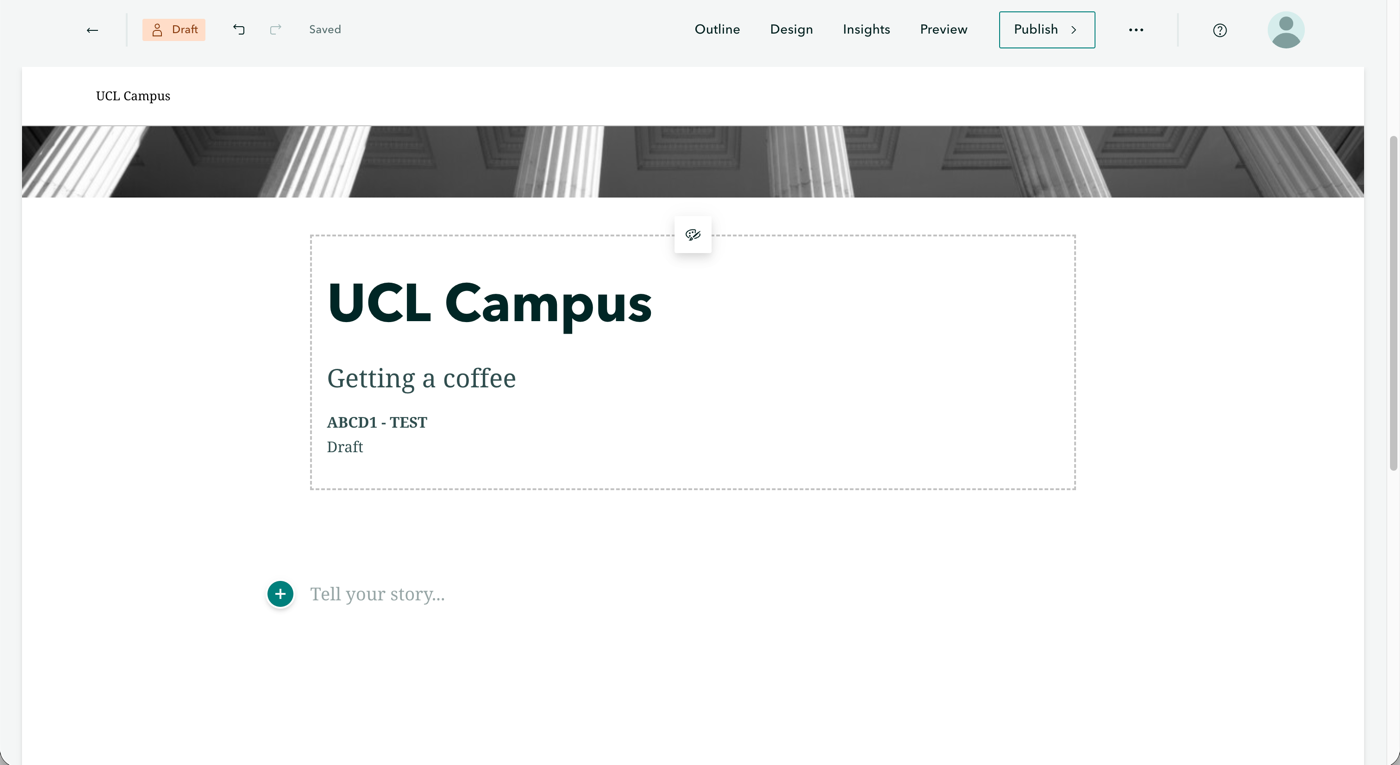
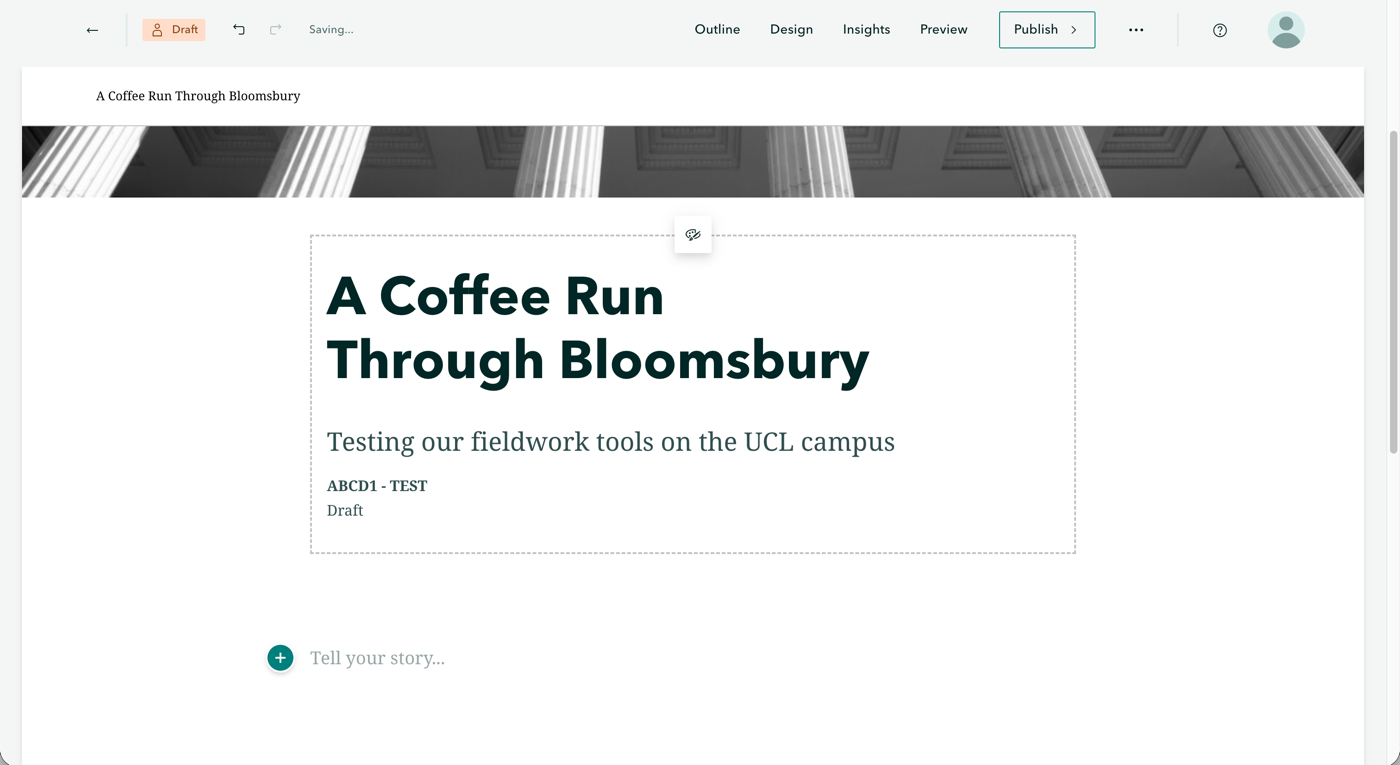
Page 03: 14 screenshots, Anwar example as callout, public-sharing callout, publish + update sharing steps, legend-only map options

diff --git a/docs/03-storymap.html b/docs/03-storymap.html
@@ -446,7 +446,19 @@ ul.task-list li input[type="checkbox"] {
 <section id="what-is-a-story-map" class="level2" data-number="3.1">
 <h2 data-number="3.1" class="anchored" data-anchor-id="what-is-a-story-map"><span class="header-section-number">3.1</span> What is a story map?</h2>
 <p>A story map is a scrolling web page in which you can place a map right next to the text it belongs to. The reader scrolls through the story, and can also zoom, pan and click on the map. A good story map has a clear storyline, and every photo, video and map element is there because it supports that storyline.</p>
-<p>For an example, have a look at <a href="https://storymaps.arcgis.com/stories/d56637a2dea048adbb520082eddea076"><em>Short revisit to the Cholera Outbreak in Soho, London (1854)</em></a> by Dr Anwar Musah, who designed the original story map material for this module. It retells John Snow’s famous map of cholera deaths around the Broad Street water pump, and shows how text, images and an interactive map can work together. It uses different data and is longer than your story map can be, so use it for inspiration, not as a template.</p>
+<div class="callout callout-style-simple callout-tip callout-titled">
+<div class="callout-header d-flex align-content-center">
+<div class="callout-icon-container">
+<i class="callout-icon"></i>
+</div>
+<div class="callout-title-container flex-fill">
+<span class="screen-reader-only">Tip</span>A proper story map: John Snow and the 1854 cholera outbreak
+</div>
+</div>
+<div class="callout-body-container callout-body">
+<p>For a full example, have a look at <a href="https://storymaps.arcgis.com/stories/d56637a2dea048adbb520082eddea076"><em>Short revisit to the Cholera Outbreak in Soho, London (1854)</em></a>, a story map designed by Dr Anwar Musah, who also designed the original story map material for this module. It retells John Snow’s famous map of cholera deaths around the Broad Street water pump, and shows how text, images and an interactive map can work together. It uses different data and is longer than your story map can be, so use it for inspiration, not as a template.</p>
+</div>
+</div>
 <p>Your story map must fit the theme your working group was allocated for the Urban Project. It is worth planning the storyline <em>before</em> you start building, by asking yourself three questions:</p>
 <ol type="1">
 <li>What is the one thing you want a reader to understand about your theme in your study area?</li>
@@ -497,10 +509,10 @@ Figure&nbsp;2: Creating a new story.
 <li><p>Click on the title placeholder and type your main title. Keep it short and specific, and make it about your theme rather than something like “My story map”. You can add a subtitle underneath.</p></li>
 <li><p>Below the subtitle is the <strong>byline</strong>, which shows your name by default. Replace it with your candidate number and your group code (for example <code>ABCD1 - CAT1_WG05</code>, with the group code as in the title of your map). Please do not put your name anywhere in the story: a story map you submit as a formative worksheet does not need to be anonymous, but it may become part of your portfolio, which is marked anonymously, so it is easiest to leave your name out from the start.</p></li>
 <li><p>Choose a cover design that suits your theme, and pick a cover image from your working group’s photos.</p>
-<div id="fig-cover" class="quarto-float quarto-figure quarto-figure-center anchored" alt="Story builder with a cover titled UCL Campus, subtitle Getting a coffee, byline ABCD1 - TEST, and a photo of columns as cover image">
+<div id="fig-cover" class="quarto-float quarto-figure quarto-figure-center anchored" alt="Story builder with a cover titled A Coffee Run Through Bloomsbury, subtitle Testing our fieldwork tools on the UCL campus, byline ABCD1 - TEST, and a photo of columns as cover image">
 <figure class="quarto-float quarto-float-fig figure">
 <div aria-describedby="fig-cover-caption-0ceaefa1-69ba-4598-a22c-09a6ac19f8ca">
-<img src="images/w03/cover.png" class="img-fluid figure-img" alt="Story builder with a cover titled UCL Campus, subtitle Getting a coffee, byline ABCD1 - TEST, and a photo of columns as cover image">
+<img src="images/w03/cover.png" class="img-fluid figure-img" alt="Story builder with a cover titled A Coffee Run Through Bloomsbury, subtitle Testing our fieldwork tools on the UCL campus, byline ABCD1 - TEST, and a photo of columns as cover image">
 </div>
 <figcaption class="quarto-float-caption-bottom quarto-float-caption quarto-float-fig" id="fig-cover-caption-0ceaefa1-69ba-4598-a22c-09a6ac19f8ca">
 Figure&nbsp;3: Cover for the <strong>test walk</strong>, with a made-up candidate number and <code>TEST</code> in the byline. Your byline shows your own candidate number and group code.
@@ -508,11 +520,21 @@ Figure&nbsp;3: Cover for the <strong>test walk</strong>, with a made-up candidat
 </figure>
 </div></li>
 </ol>
-<p>Your story is saved automatically as a draft in your own ArcGIS Online content.</p>
+<p>Your story is saved automatically as a draft: look for <span class="ui">Draft</span> and <span class="ui">Saved</span> at the top left.</p>
 </section>
 <section id="add-your-text" class="level2" data-number="3.3">
 <h2 data-number="3.3" class="anchored" data-anchor-id="add-your-text"><span class="header-section-number">3.3</span> Add your text</h2>
-<p>To add text, click below the cover and start typing. Use <span class="ui">Heading</span> from the text style menu for each of your main sections, so that the story gets a clear structure and a navigation bar. Try to keep paragraphs short, because people read web pages differently from essays.</p>
+<p>To add text, click below the cover (where it says <em>Tell your story…</em>) and start typing. For each of your main sections, select the line with the section title, open the text style menu (it shows <span class="ui">Paragraph</span>), and choose <span class="ui">Heading 1</span>. This gives the story a clear structure. Try to keep paragraphs short, because people read web pages differently from essays.</p>
+<div id="fig-text-style" class="quarto-float quarto-figure quarto-figure-center anchored" alt="Story builder with the text style menu open, listing Paragraph, Heading 1, Heading 2, Heading 3, Bulleted list, Numbered list and Quote">
+<figure class="quarto-float quarto-float-fig figure">
+<div aria-describedby="fig-text-style-caption-0ceaefa1-69ba-4598-a22c-09a6ac19f8ca">
+<img src="images/w03/text-style.png" class="img-fluid figure-img" alt="Story builder with the text style menu open, listing Paragraph, Heading 1, Heading 2, Heading 3, Bulleted list, Numbered list and Quote">
+</div>
+<figcaption class="quarto-float-caption-bottom quarto-float-caption quarto-float-fig" id="fig-text-style-caption-0ceaefa1-69ba-4598-a22c-09a6ac19f8ca">
+Figure&nbsp;4: Turning a line into a heading with the text style menu.
+</figcaption>
+</figure>
+</div>
 <p>Write for a reader who was not on the trip. Your text should explain the aim, the place, and what you did and learned, in your own words. The worksheet sets the word limit.</p>
 <div class="exercise callout callout-style-simple callout-note no-icon callout-titled">
 <div class="callout-header d-flex align-content-center">
@@ -532,11 +554,50 @@ Figure&nbsp;3: Cover for the <strong>test walk</strong>, with a made-up candidat
 <h2 data-number="3.4" class="anchored" data-anchor-id="add-your-map"><span class="header-section-number">3.4</span> Add your map</h2>
 <p>Next, we will add the web map you made last week:</p>
 <ol type="1">
-<li>Click <span class="ui">+</span> where the map should go and choose <span class="ui">Map</span>.</li>
-<li>Select <span class="ui">My content</span>, choose the web map you saved last week, and click <span class="ui">Add</span>.</li>
-<li>If you are asked about sharing, agree to share the map at the same level as the story. You will make the story public at the end (see <a href="#share-and-submit">Share and submit</a>).</li>
-<li>Use the map block’s <span class="ui">Options</span> to switch on the legend, the zoom buttons and the expand button (which lets the reader open the map full screen), and set the starting view to your study area.</li>
-<li>Click on a point to check that the pop-up still shows the site ID, note and photo. <!-- SCREENSHOT 2: map block in the story, with legend and zoom buttons. images/w03/map-block.png --></li>
+<li><p>Click <span class="ui">+</span> where the map should go and choose <span class="ui">Map</span>.</p>
+<div id="fig-block-menu" class="quarto-float quarto-figure quarto-figure-center anchored" alt="The block menu in the story builder with Text, Button, Separator, Code, Quiz, Map, Chart, Infographic, Table and Image, with Map highlighted">
+<figure class="quarto-float quarto-float-fig figure">
+<div aria-describedby="fig-block-menu-caption-0ceaefa1-69ba-4598-a22c-09a6ac19f8ca">
+<img src="images/w03/block-menu.png" class="img-fluid figure-img" alt="The block menu in the story builder with Text, Button, Separator, Code, Quiz, Map, Chart, Infographic, Table and Image, with Map highlighted">
+</div>
+<figcaption class="quarto-float-caption-bottom quarto-float-caption quarto-float-fig" id="fig-block-menu-caption-0ceaefa1-69ba-4598-a22c-09a6ac19f8ca">
+Figure&nbsp;5: The <span class="ui">+</span> menu with <span class="ui">Map</span>.
+</figcaption>
+</figure>
+</div></li>
+<li><p>Under <span class="ui">My Content</span>, click the web map you saved last week.</p>
+<div id="fig-add-map" class="quarto-float quarto-figure quarto-figure-center anchored" alt="Add a map panel with My Content selected and two web maps, GEOG0187 - UCL Field Test and GEOG0187 - Secondary Data">
+<figure class="quarto-float quarto-float-fig figure">
+<div aria-describedby="fig-add-map-caption-0ceaefa1-69ba-4598-a22c-09a6ac19f8ca">
+<img src="images/w03/add-map.png" class="img-fluid figure-img" alt="Add a map panel with My Content selected and two web maps, GEOG0187 - UCL Field Test and GEOG0187 - Secondary Data">
+</div>
+<figcaption class="quarto-float-caption-bottom quarto-float-caption quarto-float-fig" id="fig-add-map-caption-0ceaefa1-69ba-4598-a22c-09a6ac19f8ca">
+Figure&nbsp;6: Choosing the <strong>test walk</strong> map. You choose your own map from last week.
+</figcaption>
+</figure>
+</div></li>
+<li><p>The map opens in <span class="ui">Adjust map appearance</span>. Open the <span class="ui">Options</span> tab (the cog icon), and switch on <span class="ui">Legend</span> and <span class="ui">Keep legend open</span>. Keep <span class="ui">Allow map navigation</span> switched on, so that readers can zoom and pan. Then zoom the map to your study area, which sets the view the reader starts with, and click <span class="ui">Save</span>.</p>
+<div id="fig-map-options" class="quarto-float quarto-figure quarto-figure-center anchored" alt="Adjust map appearance with the Options tab open: Allow map navigation, Legend, Keep legend open and Scale bar switched on, next to a preview of the map with its legend">
+<figure class="quarto-float quarto-float-fig figure">
+<div aria-describedby="fig-map-options-caption-0ceaefa1-69ba-4598-a22c-09a6ac19f8ca">
+<img src="images/w03/map-options.png" class="img-fluid figure-img" alt="Adjust map appearance with the Options tab open: Allow map navigation, Legend, Keep legend open and Scale bar switched on, next to a preview of the map with its legend">
+</div>
+<figcaption class="quarto-float-caption-bottom quarto-float-caption quarto-float-fig" id="fig-map-options-caption-0ceaefa1-69ba-4598-a22c-09a6ac19f8ca">
+Figure&nbsp;7: The map options, with the legend switched on.
+</figcaption>
+</figure>
+</div></li>
+<li><p>Click on a point to check that the pop-up still shows the site ID, note and photo. The zoom buttons (bottom right) and the expand button (top right), which opens the map full screen, are added automatically.</p>
+<div id="fig-map-block" class="quarto-float quarto-figure quarto-figure-center anchored" alt="Map block in the story with the route, an open pop-up for site S01 showing a photo of the UCL Portico, zoom buttons at the bottom right and an expand button at the top right">
+<figure class="quarto-float quarto-float-fig figure">
+<div aria-describedby="fig-map-block-caption-0ceaefa1-69ba-4598-a22c-09a6ac19f8ca">
+<img src="images/w03/map-block.png" class="img-fluid figure-img" alt="Map block in the story with the route, an open pop-up for site S01 showing a photo of the UCL Portico, zoom buttons at the bottom right and an expand button at the top right">
+</div>
+<figcaption class="quarto-float-caption-bottom quarto-float-caption quarto-float-fig" id="fig-map-block-caption-0ceaefa1-69ba-4598-a22c-09a6ac19f8ca">
+Figure&nbsp;8: The map in the story, with a pop-up open.
+</figcaption>
+</figure>
+</div></li>
 </ol>
 <p>If you would like the map to change as the reader scrolls through the text, you can try a <span class="ui">Sidecar</span> or <span class="ui">Immersive</span> block. These place the text in a panel that scrolls over a full-screen map. This is a nice extra, but it is not a requirement.</p>
 <div class="callout callout-style-simple callout-note callout-titled">
@@ -557,9 +618,29 @@ Figure&nbsp;3: Cover for the <strong>test walk</strong>, with a made-up candidat
 <h2 data-number="3.5" class="anchored" data-anchor-id="add-photos-and-captions"><span class="header-section-number">3.5</span> Add photos and captions</h2>
 <p>Photos are where your story comes to life. To add one:</p>
 <ol type="1">
-<li>Click <span class="ui">+</span> → <span class="ui">Image</span> and upload a photo from your computer. If uploads are slow, resize large photos first.</li>
-<li>Add a <strong>caption</strong> under every photo that says what it shows and why it matters for your story. If the photo comes from your working group’s shared folder, mention this.</li>
-<li>Add <strong>alt text</strong>, so that the image can be understood by someone using a screen reader. <!-- SCREENSHOT 3: an image block with caption and alt text. images/w03/image-block.png --></li>
+<li><p>Click <span class="ui">+</span> → <span class="ui">Image</span> and upload a photo from your computer. If uploads are slow, resize large photos first.</p>
+<div id="fig-image-menu" class="quarto-float quarto-figure quarto-figure-center anchored" alt="The block menu scrolled down to Media, with Image highlighted">
+<figure class="quarto-float quarto-float-fig figure">
+<div aria-describedby="fig-image-menu-caption-0ceaefa1-69ba-4598-a22c-09a6ac19f8ca">
+<img src="images/w03/image-menu.png" class="img-fluid figure-img" alt="The block menu scrolled down to Media, with Image highlighted">
+</div>
+<figcaption class="quarto-float-caption-bottom quarto-float-caption quarto-float-fig" id="fig-image-menu-caption-0ceaefa1-69ba-4598-a22c-09a6ac19f8ca">
+Figure&nbsp;9: <span class="ui">Image</span> in the <span class="ui">+</span> menu.
+</figcaption>
+</figure>
+</div></li>
+<li><p>Add a <strong>caption</strong> under every photo that says what it shows and why it matters for your story. If the photo comes from your working group’s shared folder, mention this.</p></li>
+<li><p>Add <strong>alt text</strong>, so that the image can be understood by someone using a screen reader.</p>
+<div id="fig-image-block" class="quarto-float quarto-figure quarto-figure-center anchored" alt="Image block in the story showing a building with a green wall and a red car, with the caption S02, Gordon Street">
+<figure class="quarto-float quarto-float-fig figure">
+<div aria-describedby="fig-image-block-caption-0ceaefa1-69ba-4598-a22c-09a6ac19f8ca">
+<img src="images/w03/image-block.png" class="img-fluid figure-img" alt="Image block in the story showing a building with a green wall and a red car, with the caption S02, Gordon Street">
+</div>
+<figcaption class="quarto-float-caption-bottom quarto-float-caption quarto-float-fig" id="fig-image-block-caption-0ceaefa1-69ba-4598-a22c-09a6ac19f8ca">
+Figure&nbsp;10: A photo from the <strong>test walk</strong>, with its caption. Your captions say what each photo shows and why it matters.
+</figcaption>
+</figure>
+</div></li>
 </ol>
 <p>Choose photos that support your argument: five good photos that you refer to in the text are better than fifteen that only decorate the page.</p>
 <div class="exercise callout callout-style-simple callout-note no-icon callout-titled">
@@ -588,12 +669,68 @@ Figure&nbsp;3: Cover for the <strong>test walk</strong>, with a made-up candidat
 </section>
 <section id="share-and-submit" class="level2" data-number="3.7">
 <h2 data-number="3.7" class="anchored" data-anchor-id="share-and-submit"><span class="header-section-number">3.7</span> Share and submit</h2>
-<p>What you submit is the link to your story map, so anyone with the link must be able to open it. Let us make sure that this is the case:</p>
+<p>What you submit is the link to your story map, so anyone with the link must be able to open it.</p>
+<div class="callout callout-style-simple callout-important callout-titled">
+<div class="callout-header d-flex align-content-center">
+<div class="callout-icon-container">
+<i class="callout-icon"></i>
+</div>
+<div class="callout-title-container flex-fill">
+<span class="screen-reader-only">Important</span>Share with Everyone (public), or nobody can see it
+</div>
+</div>
+<div class="callout-body-container callout-body">
+<p>A new story is <strong>Private</strong>: only you can see it. If you do not share your story, <em>and</em> the map in it, with <span class="ui">Everyone (public)</span>, the marker sees nothing at all, or a story with an empty map. Work that cannot be opened cannot be marked.</p>
+</div>
+</div>
+<p>Let us publish the story and make sure that this is the case:</p>
 <ol type="1">
-<li>Click <span class="ui">Share</span> (top right) and set the visibility to <span class="ui">Everyone (public)</span>. If the builder asks, make sure the web map and its layers are shared at the same level.</li>
-<li>Click <span class="ui">Publish</span>, and copy the story’s URL.</li>
-<li>Open the URL in a private or incognito browser window, which shows you exactly what a marker will see. Check that the map, pop-ups, photos and video all work without being signed in.</li>
+<li><p>Click <span class="ui">Publish</span> (top right). Under <span class="ui">Share</span>, change <span class="ui">Private</span> to <span class="ui">Everyone (Public)</span>, and click <span class="ui">Publish</span>.</p>
+<div id="fig-publish-options" class="quarto-float quarto-figure quarto-figure-center anchored" alt="Publish options with Story details on the left and the Share drop-down on the right, open on Private, Organization and Everyone (Public)">
+<figure class="quarto-float quarto-float-fig figure">
+<div aria-describedby="fig-publish-options-caption-0ceaefa1-69ba-4598-a22c-09a6ac19f8ca">
+<img src="images/w03/publish-options.png" class="img-fluid figure-img" alt="Publish options with Story details on the left and the Share drop-down on the right, open on Private, Organization and Everyone (Public)">
+</div>
+<figcaption class="quarto-float-caption-bottom quarto-float-caption quarto-float-fig" id="fig-publish-options-caption-0ceaefa1-69ba-4598-a22c-09a6ac19f8ca">
+Figure&nbsp;11: Choosing <span class="ui">Everyone (Public)</span> in the publish options.
+</figcaption>
+</figure>
+</div></li>
+<li><p>StoryMaps then tells you that your web map is not shared the same way as the story. Click <span class="ui">Update sharing</span>, so that the map and its layers become public too. Do not click <span class="ui">Continue without sharing</span>.</p>
+<div id="fig-content-sharing" class="quarto-float quarto-figure quarto-figure-center anchored" alt="Content sharing dialog saying the web map GEOG0187 - UCL Field Test requires a sharing update, changing to Everyone (Public), with Continue without sharing and Update sharing buttons">
+<figure class="quarto-float quarto-float-fig figure">
+<div aria-describedby="fig-content-sharing-caption-0ceaefa1-69ba-4598-a22c-09a6ac19f8ca">
+<img src="images/w03/content-sharing.png" class="img-fluid figure-img" alt="Content sharing dialog saying the web map GEOG0187 - UCL Field Test requires a sharing update, changing to Everyone (Public), with Continue without sharing and Update sharing buttons">
+</div>
+<figcaption class="quarto-float-caption-bottom quarto-float-caption quarto-float-fig" id="fig-content-sharing-caption-0ceaefa1-69ba-4598-a22c-09a6ac19f8ca">
+Figure&nbsp;12: Updating the sharing of the web map.
+</figcaption>
+</figure>
+</div></li>
+<li><p>Your story is now published. Click <span class="ui">Copy link</span> to copy its URL.</p>
+<div id="fig-published" class="quarto-float quarto-figure quarto-figure-center anchored" alt="Confirmation page saying You've published your story, with Copy link, social media buttons, a QR code and buttons to view or edit the story">
+<figure class="quarto-float quarto-float-fig figure">
+<div aria-describedby="fig-published-caption-0ceaefa1-69ba-4598-a22c-09a6ac19f8ca">
+<img src="images/w03/published.png" class="img-fluid figure-img" alt="Confirmation page saying You've published your story, with Copy link, social media buttons, a QR code and buttons to view or edit the story">
+</div>
+<figcaption class="quarto-float-caption-bottom quarto-float-caption quarto-float-fig" id="fig-published-caption-0ceaefa1-69ba-4598-a22c-09a6ac19f8ca">
+Figure&nbsp;13: The story is published.
+</figcaption>
+</figure>
+</div></li>
+<li><p>Open the URL in a private or incognito browser window, which shows you exactly what a marker will see. Check that the map, pop-ups, photos and video all work without being signed in.</p>
+<div id="fig-private-window" class="quarto-float quarto-figure quarto-figure-center anchored" alt="The published story open in an incognito window, with the cover photo, title, subtitle and byline ABCD1 - TEST">
+<figure class="quarto-float quarto-float-fig figure">
+<div aria-describedby="fig-private-window-caption-0ceaefa1-69ba-4598-a22c-09a6ac19f8ca">
+<img src="images/w03/private-window.png" class="img-fluid figure-img" alt="The published story open in an incognito window, with the cover photo, title, subtitle and byline ABCD1 - TEST">
+</div>
+<figcaption class="quarto-float-caption-bottom quarto-float-caption quarto-float-fig" id="fig-private-window-caption-0ceaefa1-69ba-4598-a22c-09a6ac19f8ca">
+Figure&nbsp;14: The published story in a private window: no name, and no sign-in needed.
+</figcaption>
+</figure>
+</div></li>
 </ol>
+<p>If you change your story after publishing, click <span class="ui">Publish</span> again so that readers see the latest version.</p>
 <p>The submission itself is explained in the worksheet brief and on Moodle.</p>
 </section>
 <section id="before-you-leave" class="level2" data-number="3.8">
@@ -602,7 +739,7 @@ Figure&nbsp;3: Cover for the <strong>test walk</strong>, with a made-up candidat
 <ul class="task-list">
 <li><label><input type="checkbox">a title, and your candidate number and group code in the byline, with no name;</label></li>
 <li><label><input type="checkbox">your main headings in place, even if some sections are still empty;</label></li>
-<li><label><input type="checkbox">your web map embedded, with a legend, zoom and expand buttons, and working pop-ups;</label></li>
+<li><label><input type="checkbox">your web map embedded, with a legend and working pop-ups;</label></li>
 <li><label><input type="checkbox">at least one photo with a caption;</label></li>
 <li><label><input type="checkbox">a link that opens when you are signed out.</label></li>
 </ul>
@@ -632,7 +769,7 @@ Figure&nbsp;3: Cover for the <strong>test walk</strong>, with a made-up candidat
 </tr>
 <tr class="odd">
 <td style="text-align: left;">The map does not load when signed out</td>
-<td style="text-align: left;">Share the web map and its layers with <span class="ui">Everyone (public)</span>, then reload the story in a private window.</td>
+<td style="text-align: left;">You probably clicked <span class="ui">Continue without sharing</span>. Click <span class="ui">Publish</span> again, and choose <span class="ui">Update sharing</span> this time. Then reload the story in a private window.</td>
 </tr>
 <tr class="even">
 <td style="text-align: left;">My name is shown on the cover</td>
@@ -644,7 +781,7 @@ Figure&nbsp;3: Cover for the <strong>test walk</strong>, with a made-up candidat
 </tr>
 <tr class="even">
 <td style="text-align: left;">I lost my story</td>
-<td style="text-align: left;">Go to <span class="ui">StoryMaps</span> → <span class="ui">My stories</span>. Drafts are saved automatically.</td>
+<td style="text-align: left;">Open <span class="ui">StoryMaps</span> from the app launcher: your stories are listed under <span class="ui">My Content</span>. Drafts are saved automatically.</td>
 </tr>
 </tbody>
 </table>
